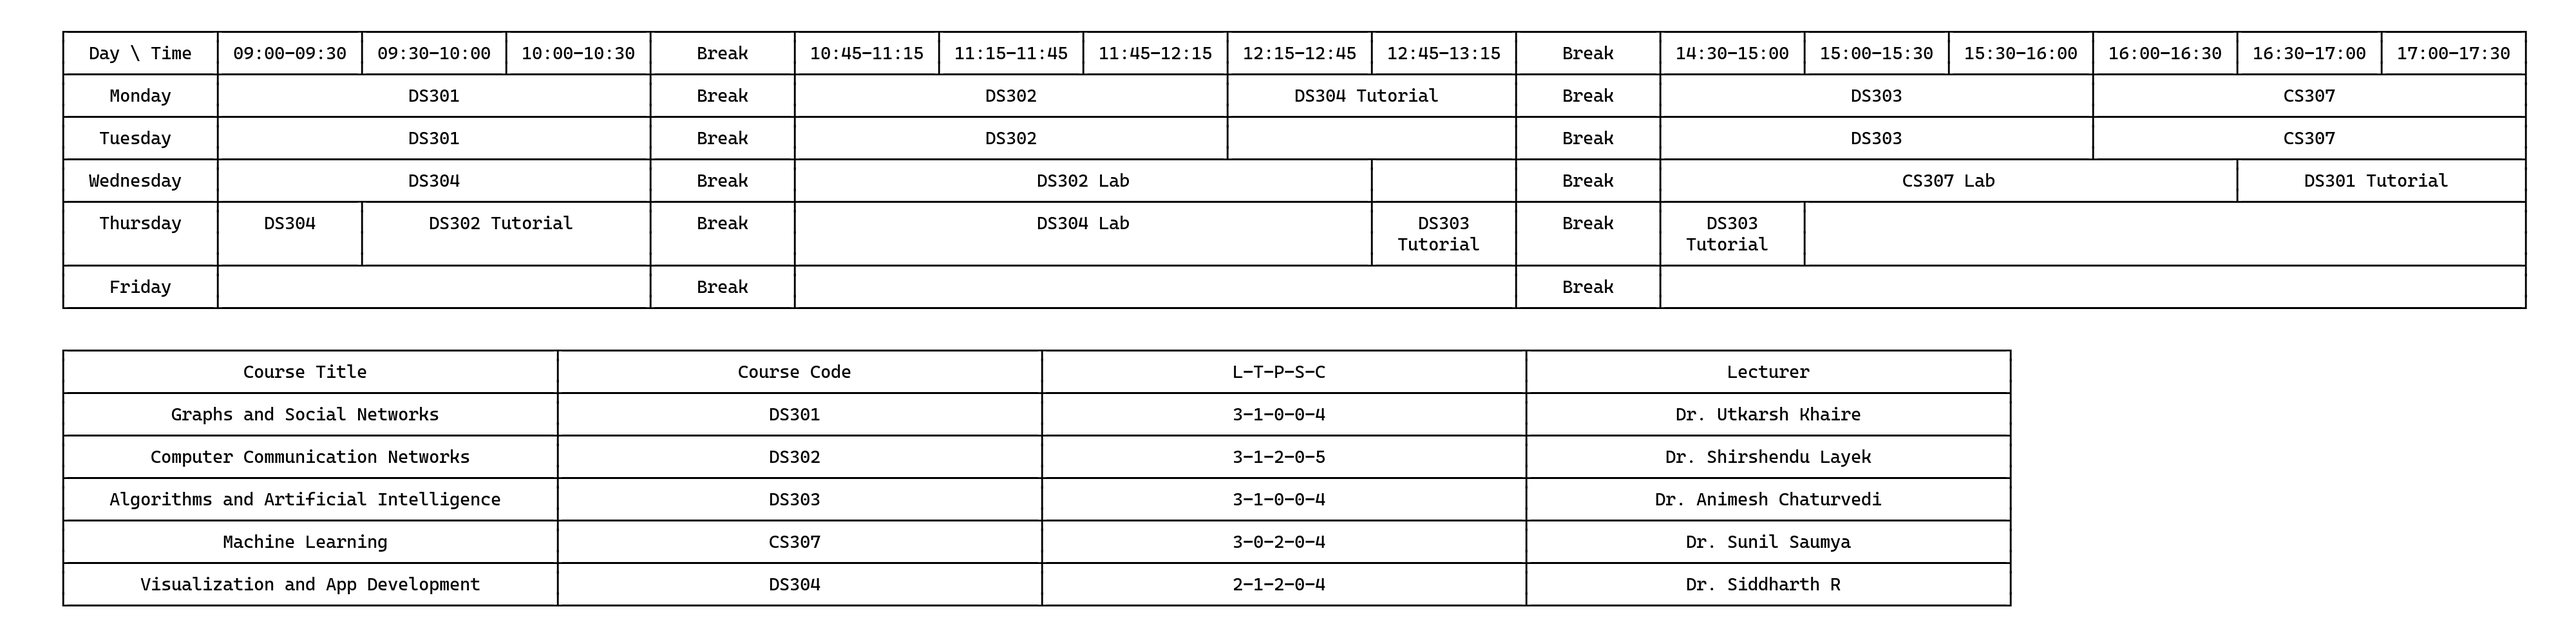
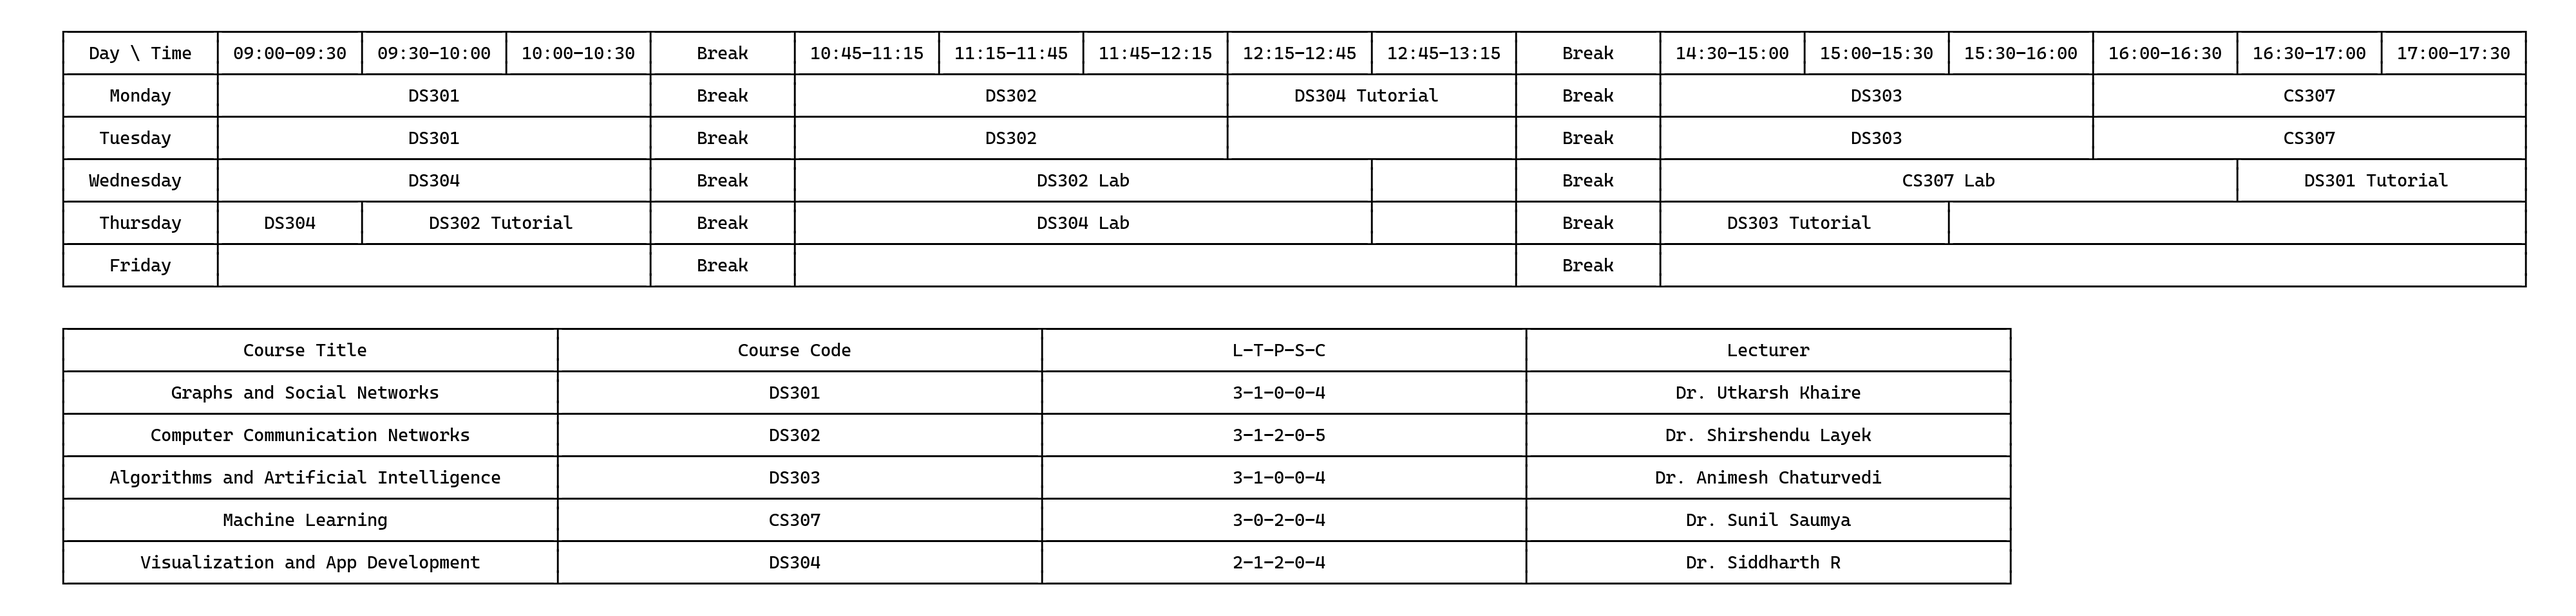
made sure tutorial is not broken

Changed region(s): [[0.0312, 0.0303, 0.9688, 0.4843], [0.0312, 0.5146, 0.7812, 0.9687]]

diff --git a/src/main/java/timeTableSchedulinev2/TimeTable.java b/src/main/java/timeTableSchedulinev2/TimeTable.java
@@ -180,7 +180,7 @@ public class TimeTable {
 
     public void makeTimeTable() {
         /*
-         * Timings: 9:00 to 9:30 | 9:30 10 | 10 to 10:30 | <break> | 10:45 to
+         * Timings: 9:00 to 9:30 | 9:30 to 10 | 10 to 10:30 | <break> | 10:45 to
          * 11:15 | 11:15 to 11 : 45 | 11:45 to 12:15 | 12:15 to 12:45 | 12:45 to
          * 13:15 | <break> | 14:30 to 15 | 15 to 15:30 | 15:30 to 16:00 | 16:00
          * to 16:30 | 16:30 to 17 | 17 to 17:30 Duration: 30 | 30 | 30 | ... |
@@ -258,6 +258,7 @@ public class TimeTable {
                     if (searchDayForAnyOtherLecture(c, i, count)) continue;
 
                     for (int j = 0; j < 13 && t > 0; j++) {
+                    	if (j == 2 || j == 7) continue; // Avoid breaks
                         if (timeTable[count][i][j] == null && timeTable[count][i][j + 1] == null) {
                             timeTable[count][i][j]     = x;
                             timeTable[count][i][j + 1] = x;
